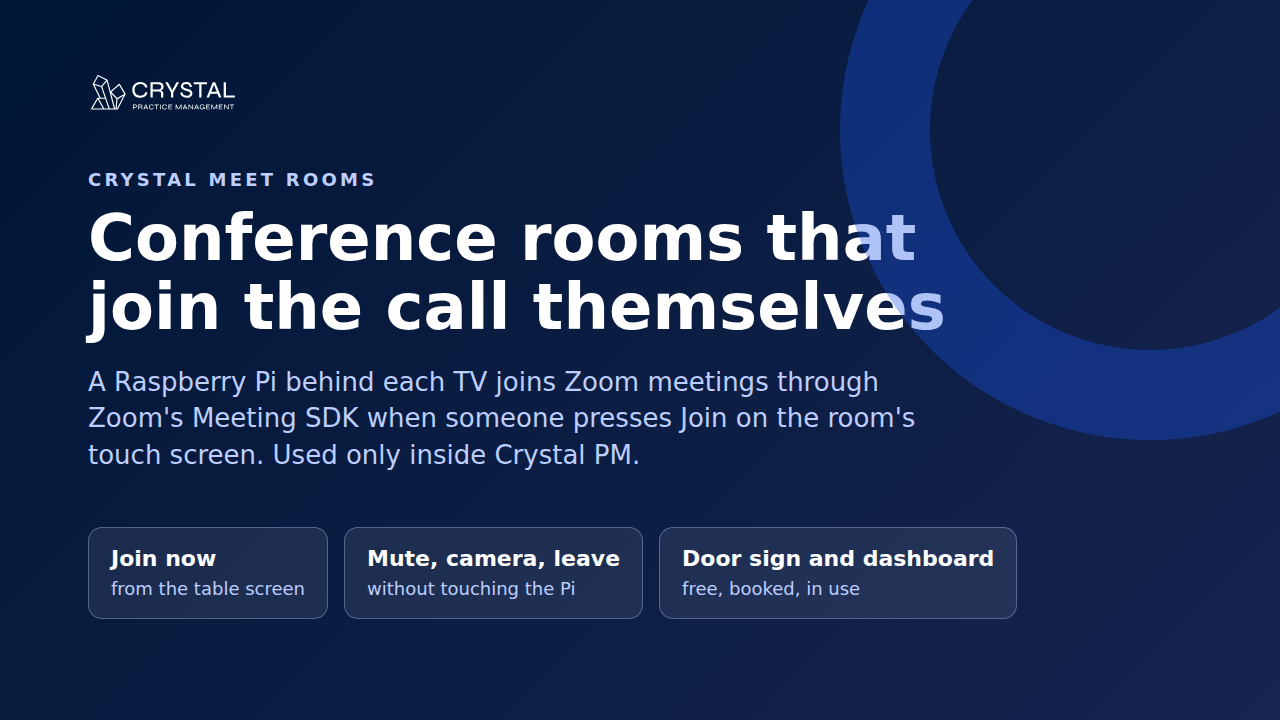
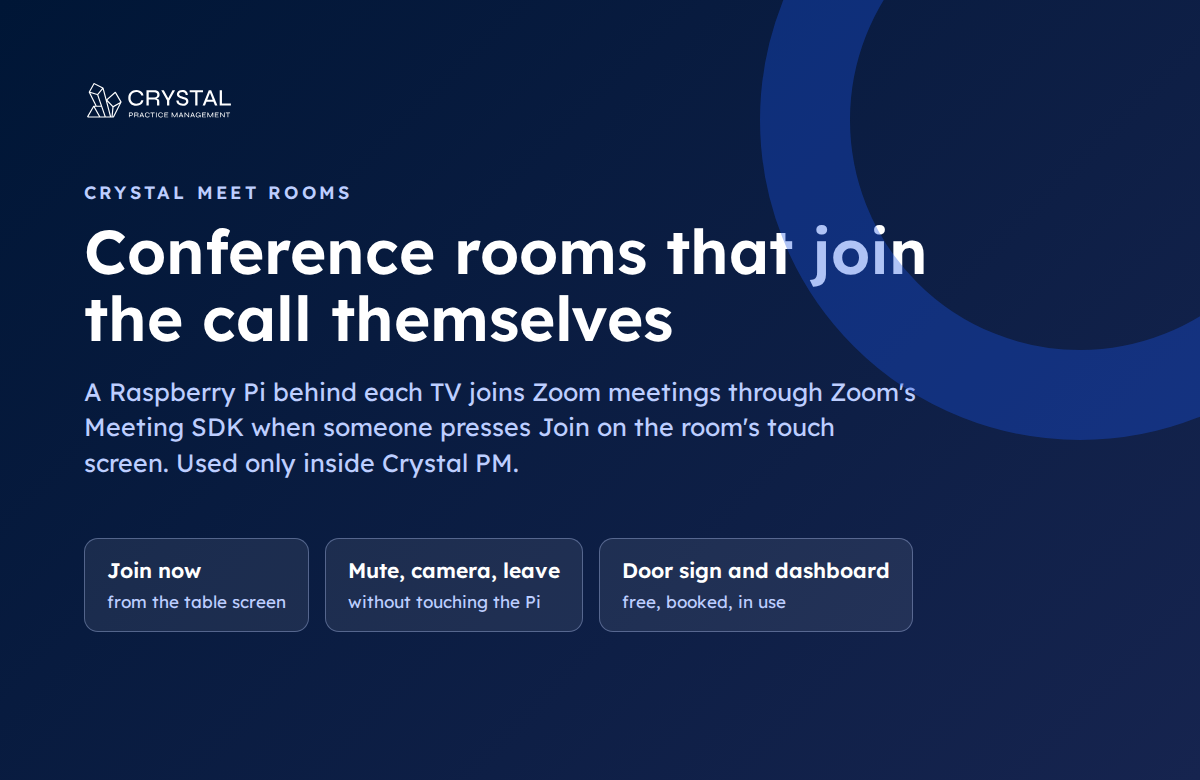
docs: Zoom listing images at the sizes the App Listing page demands, with the brand fonts embedded

diff --git a/deploy/zoom-marketplace/render_assets.py b/deploy/zoom-marketplace/render_assets.py
@@ -1,23 +1,31 @@
 """
-Render the Zoom Marketplace listing assets for the Crystal Meet rooms app: a
-160 by 160 icon and a 1280 by 720 gallery image, in the Crystal PM style.
+Render the Zoom Marketplace listing assets for the Crystal Meet rooms app, at the
+sizes the App Listing page demands: a 160 by 160 icon, a 1200 by 780 gallery
+image and a 1824 by 176 cover strip, in the Crystal PM style.
 
-Usage: python deploy/zoom-marketplace/render_assets.py   (writes icon.png and gallery.png here)
+Usage: python deploy/zoom-marketplace/render_assets.py   (writes the PNGs next to this file)
 """
 
+import base64
 from pathlib import Path
 
 from playwright.sync_api import sync_playwright
 
 HERE = Path(__file__).resolve().parent
-LOGO = (HERE.parent.parent / "docs" / "guides" / "crystal-meet-zoom" / "crystalpm-logo-white.svg").read_text(encoding="utf-8")
-FONT_400 = (HERE.parent.parent / "docs" / "guides" / "crystal-meet-zoom" / "fonts" / "lexend-400.woff2").as_uri()
-FONT_600 = (HERE.parent.parent / "docs" / "guides" / "crystal-meet-zoom" / "fonts" / "lexend-600.woff2").as_uri()
+ZOOM_GUIDE = HERE.parent.parent / "docs" / "guides" / "crystal-meet-zoom"
+LOGO = (ZOOM_GUIDE / "crystalpm-logo-white.svg").read_text(encoding="utf-8")
+
+
+def font(name: str) -> str:
+    data = base64.b64encode((ZOOM_GUIDE / "fonts" / name).read_bytes()).decode()
+    return f"data:font/woff2;base64,{data}"
+
 
 STYLE = f"""
-@font-face {{ font-family: Lexend; src: url("{FONT_400}") format("woff2"); font-weight: 400; }}
-@font-face {{ font-family: Lexend; src: url("{FONT_600}") format("woff2"); font-weight: 600; }}
+@font-face {{ font-family: Lexend; src: url("{font('lexend-400.woff2')}") format("woff2"); font-weight: 400; }}
+@font-face {{ font-family: Lexend; src: url("{font('lexend-600.woff2')}") format("woff2"); font-weight: 600; }}
 * {{ box-sizing: border-box; }} body {{ margin: 0; font-family: Lexend, "Segoe UI", Arial, sans-serif; color: #fff; }}
+.ring {{ position: absolute; border-radius: 50%; border: 90px solid rgba(27,82,229,.35); }}
 """
 
 ICON = f"""<!DOCTYPE html><html><head><style>{STYLE}
@@ -26,15 +34,15 @@ ICON = f"""<!DOCTYPE html><html><head><style>{STYLE}
 </style></head><body><div class="icon">{LOGO}</div></body></html>"""
 
 GALLERY = f"""<!DOCTYPE html><html><head><style>{STYLE}
-.card {{ width: 1280px; height: 720px; background: linear-gradient(135deg, #001636 0%, #16244F 100%); padding: 72px 88px; position: relative; overflow: hidden; }}
-.card svg {{ width: 150px; height: auto; display: block; margin-bottom: 56px; }}
+.card {{ width: 1200px; height: 780px; background: linear-gradient(135deg, #001636 0%, #16244F 100%); padding: 80px 84px; position: relative; overflow: hidden; }}
+.card svg {{ width: 150px; height: auto; display: block; margin-bottom: 60px; }}
 .kicker {{ font-size: 18px; font-weight: 600; letter-spacing: .18em; text-transform: uppercase; color: #BDCEFF; margin: 0 0 14px; }}
-h1 {{ font-size: 64px; font-weight: 600; line-height: 1.08; margin: 0 0 22px; max-width: 900px; }}
-p.lead {{ font-size: 26px; line-height: 1.4; color: #BDCEFF; margin: 0 0 54px; max-width: 880px; }}
+h1 {{ font-size: 62px; font-weight: 600; line-height: 1.08; margin: 0 0 22px; max-width: 860px; }}
+p.lead {{ font-size: 25px; line-height: 1.42; color: #BDCEFF; margin: 0 0 58px; max-width: 840px; }}
 .chips {{ display: flex; gap: 16px; }}
-.chip {{ background: rgba(255,255,255,.08); border: 1px solid rgba(189,206,255,.35); border-radius: 14px; padding: 18px 22px; font-size: 22px; }}
-.chip b {{ display: block; color: #fff; font-weight: 600; margin-bottom: 4px; }} .chip span {{ color: #BDCEFF; font-size: 18px; }}
-.ring {{ position: absolute; right: -180px; top: -180px; width: 620px; height: 620px; border-radius: 50%; border: 90px solid rgba(27,82,229,.35); }}
+.chip {{ background: rgba(255,255,255,.08); border: 1px solid rgba(189,206,255,.35); border-radius: 14px; padding: 18px 22px; font-size: 21px; }}
+.chip b {{ display: block; color: #fff; font-weight: 600; margin-bottom: 4px; }} .chip span {{ color: #BDCEFF; font-size: 17px; }}
+.ring {{ right: -200px; top: -200px; width: 640px; height: 640px; }}
 </style></head><body><div class="card"><div class="ring"></div>{LOGO}
 <p class="kicker">Crystal Meet rooms</p>
 <h1>Conference rooms that join the call themselves</h1>
@@ -45,21 +53,32 @@ p.lead {{ font-size: 26px; line-height: 1.4; color: #BDCEFF; margin: 0 0 54px; m
   <div class="chip"><b>Door sign and dashboard</b><span>free, booked, in use</span></div>
 </div></div></body></html>"""
 
+# The left third sits under the app logo on Zoom's page, so the strip keeps its shapes on the right and no text.
+COVER = f"""<!DOCTYPE html><html><head><style>{STYLE}
+.cover {{ width: 1824px; height: 176px; background: linear-gradient(90deg, #001636 0%, #16244F 60%, #1B52E5 100%); position: relative; overflow: hidden; }}
+.ring {{ border-width: 40px; }}
+.r1 {{ right: 120px; top: -140px; width: 360px; height: 360px; }}
+.r2 {{ right: 560px; top: 60px; width: 260px; height: 260px; border-color: rgba(189,206,255,.25); }}
+.r3 {{ right: 1000px; top: -220px; width: 300px; height: 300px; border-color: rgba(27,82,229,.25); }}
+</style></head><body><div class="cover"><div class="ring r1"></div><div class="ring r2"></div><div class="ring r3"></div></div></body></html>"""
+
+
+def shoot(page, html: str, selector: str, out: Path) -> None:
+    page.set_content(html)
+    page.evaluate("document.fonts.ready")
+    page.wait_for_timeout(300)
+    page.locator(selector).screenshot(path=str(out))
+
 
 def main() -> None:
     with sync_playwright() as p:
         browser = p.chromium.launch()
-        page = browser.new_page(viewport={"width": 1280, "height": 720}, device_scale_factor=1)
-        page.set_content(ICON)
-        page.evaluate("document.fonts.ready")
-        page.wait_for_timeout(300)
-        page.locator(".icon").screenshot(path=str(HERE / "icon.png"))
-        page.set_content(GALLERY)
-        page.evaluate("document.fonts.ready")
-        page.wait_for_timeout(300)
-        page.locator(".card").screenshot(path=str(HERE / "gallery.png"))
+        page = browser.new_page(viewport={"width": 1900, "height": 900}, device_scale_factor=1)
+        shoot(page, ICON, ".icon", HERE / "icon.png")
+        shoot(page, GALLERY, ".card", HERE / "gallery.png")
+        shoot(page, COVER, ".cover", HERE / "cover.png")
         browser.close()
-    print(f"wrote {HERE / 'icon.png'} and {HERE / 'gallery.png'}")
+    print(f"wrote icon.png, gallery.png and cover.png in {HERE}")
 
 
 if __name__ == "__main__":

diff --git a/deploy/zoom-marketplace/listing.md b/deploy/zoom-marketplace/listing.md
@@ -18,7 +18,9 @@ verified for the account on the Publish page.
   Zoom, collects no data beyond the room's own Zoom Access Key, and is used only
   by Crystal PM, a practice-management software company in the United States.
 - App icon: icon.png (160 by 160), light and dark mode.
-- App gallery: gallery.png (1280 by 720).
+- App gallery: gallery.png (1200 by 780).
+- Cover image: cover.png (1824 by 176; the left side sits under the icon, so it carries no text).
+- Adding Your App: From Marketplace.
 - Company name: Crystal PM
 - Marketplace Category: Productivity (or Meetings and Rooms, if offered); Industry Category: Healthcare (Crystal PM's customers) or Technology
 - Developer contact: a mailbox someone reads, for example it@crystalpm.com
